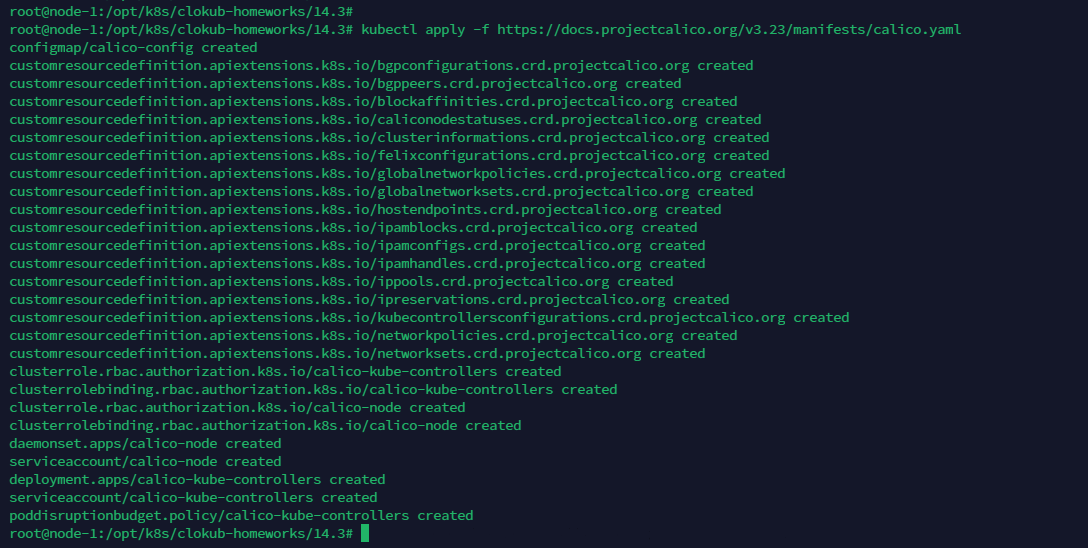
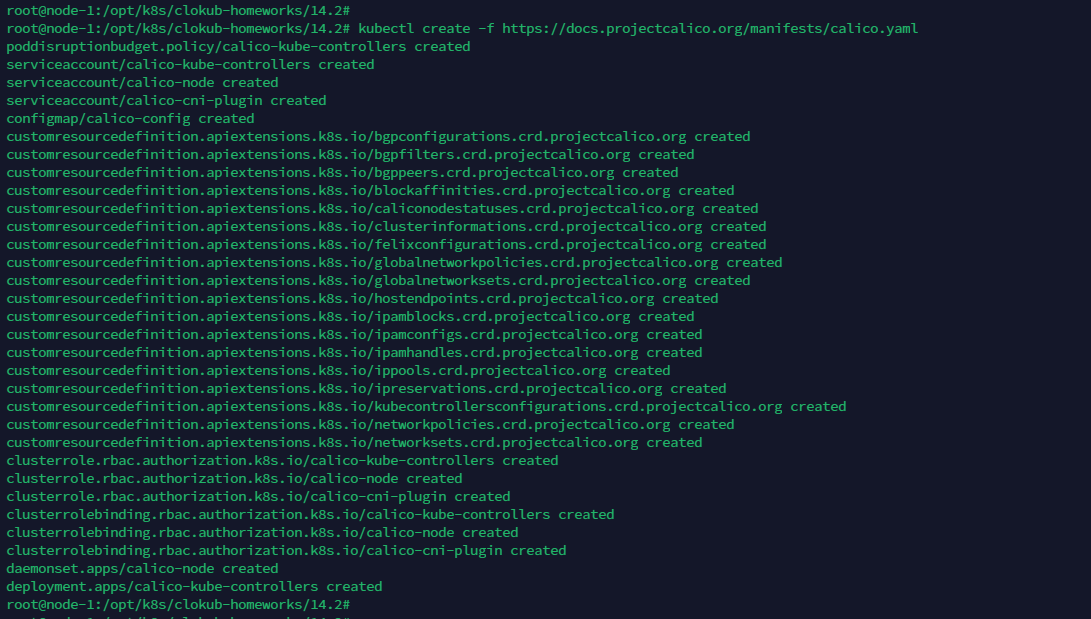
add answer for all tasks

Changed region(s): [[0.0, 0.0, 0.875, 1.0]]

diff --git a/14.3/14.3.md b/14.3/14.3.md
@@ -18,11 +18,37 @@
 
 ### Задание 1. Создать сетевую политику или несколько политик для обеспечения доступа
 
-1. Создать deployment'ы приложений frontend, backend и cache и соответсвующие сервисы.
+1. Создать deployment'ы приложений frontend, backend и cache и соответствующие сервисы.
 2. В качестве образа использовать network-multitool.
 3. Разместить поды в namespace App.
 4. Создать политики, чтобы обеспечить доступ frontend -> backend -> cache. Другие виды подключений должны быть запрещены.
 5. Продемонстрировать, что трафик разрешён и запрещён.
+
+-----
+### Ответ
+
+0. Установил calico на кластер
+
+    ![install_calico](./img/install_calico.png)
+
+1. Создал namespace app, deployment'ы приложений [frontend](./frontend.yaml), [backend](./backend.yaml) и [cache](./cache.yaml) и соответствующие сервисы и применил их
+
+    ![create_deployments](./img/create_deployments.png)
+
+2. Проверил что сетевой доступ между подами есть
+
+    ![curl_without_rules](./img/curl_without_rules.png)
+
+3. Написал [манифест](./deny-ingress.yaml) и применил общую политику на запрет и убедился что доступа больше нет
+
+    ![apply_policy](./img/apply_policy.png)
+
+4. Написал манифест для доступа в [backend](./backend-ingress.yaml) и в [cache](./cache-ingress.yaml), применил и убедился что открылись только нужные доступы
+
+    ![open_ingress_policy](./img/open_ingress_policy.png)
+
+
+-----
 
 ### Правила приёма работы
 
